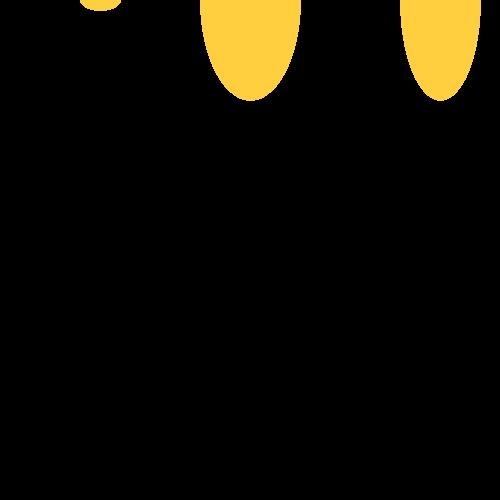
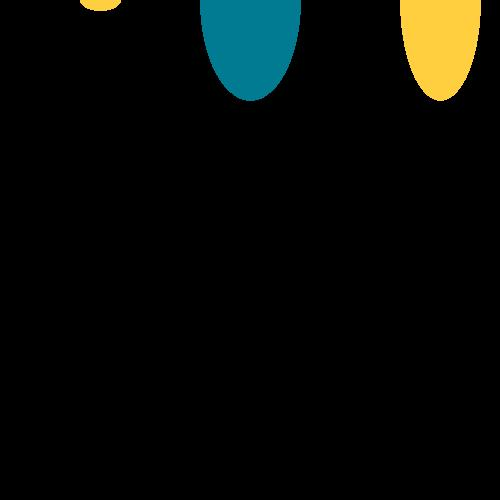
2

Changed region(s): [[0.39, 0.0, 0.6, 0.21]]

diff --git a/pythonProject/main.py b/pythonProject/main.py
@@ -1,5 +1,6 @@
 from PIL import Image, ImageDraw
 import sys
+import random
 from PyQt5 import QtCore, QtGui, QtWidgets
 from PyQt5.QtWidgets import QApplication, QWidget, QPushButton
 import sys  #  загружаем библиотеки и различные модули
@@ -24,23 +25,25 @@ class MyWidget(QMainWindow):
         self.pushButton.clicked.connect(self.run1)  # делаем возможность нажатия на кнопку, перенаправляет нас в функцию
         self.pushButton.setStyleSheet("background-color: rgb(153, 50, 204);")  # изменяем цвет кнопки
 
-    def run1(self, sky_color='#87CEEB',
-            ocean_color='#017B92', boat_color='#874535',
-            sail_color='#FFFFFF', sun_color='#FFCF40'):  # создаём функцию, которой при входе не задаются аргументы
+    def run1(self):  # создаём функцию, которой при входе не задаются аргументы
         im = Image.new("RGB", (500, 500))
+        k = ['#87CEEB', '#017B92', '#874535', '#FFFFFF', '#FFCF40']
+        p = random.randint(1, 5)
         drawer = ImageDraw.Draw(im)
         drawer.ellipse((
             (int(0.8 * 500), -int(0.2 * 500)),
             (int(1.2 * 400), int(0.2 * 500))),
-            sun_color)
+            k[p])
+        p = random.randint(0, 4)
         drawer.ellipse((
             (int(0.8 * 250), -int(0.2 * 500)),
             (int(1.2 * 250), int(0.2 * 500))),
-            sun_color)
+            k[p])
+        p = random.randint(1, 5)
         drawer.ellipse((
             (int(0.8 * 100), -int(0.2 * 50)),
             (int(1.2 * 100), int(0.2 * 50))),
-            sun_color)
+            k[p])
         im.save('res1.jpg')  # сохраняем результат
         self.pixmap = QPixmap('res1.jpg')  # загружаем картинку
         self.label.setPixmap(self.pixmap)  # открываем картинку в label

diff --git a/pythonProject1/main.py b/pythonProject1/main.py
@@ -1,0 +1,16 @@
+# This is a sample Python script.
+
+# Press Shift+F10 to execute it or replace it with your code.
+# Press Double Shift to search everywhere for classes, files, tool windows, actions, and settings.
+
+
+def print_hi(name):
+    # Use a breakpoint in the code line below to debug your script.
+    print(f'Hi, {name}')  # Press Ctrl+F8 to toggle the breakpoint.
+
+
+# Press the green button in the gutter to run the script.
+if __name__ == '__main__':
+    print_hi('PyCharm')
+
+# See PyCharm help at https://www.jetbrains.com/help/pycharm/
